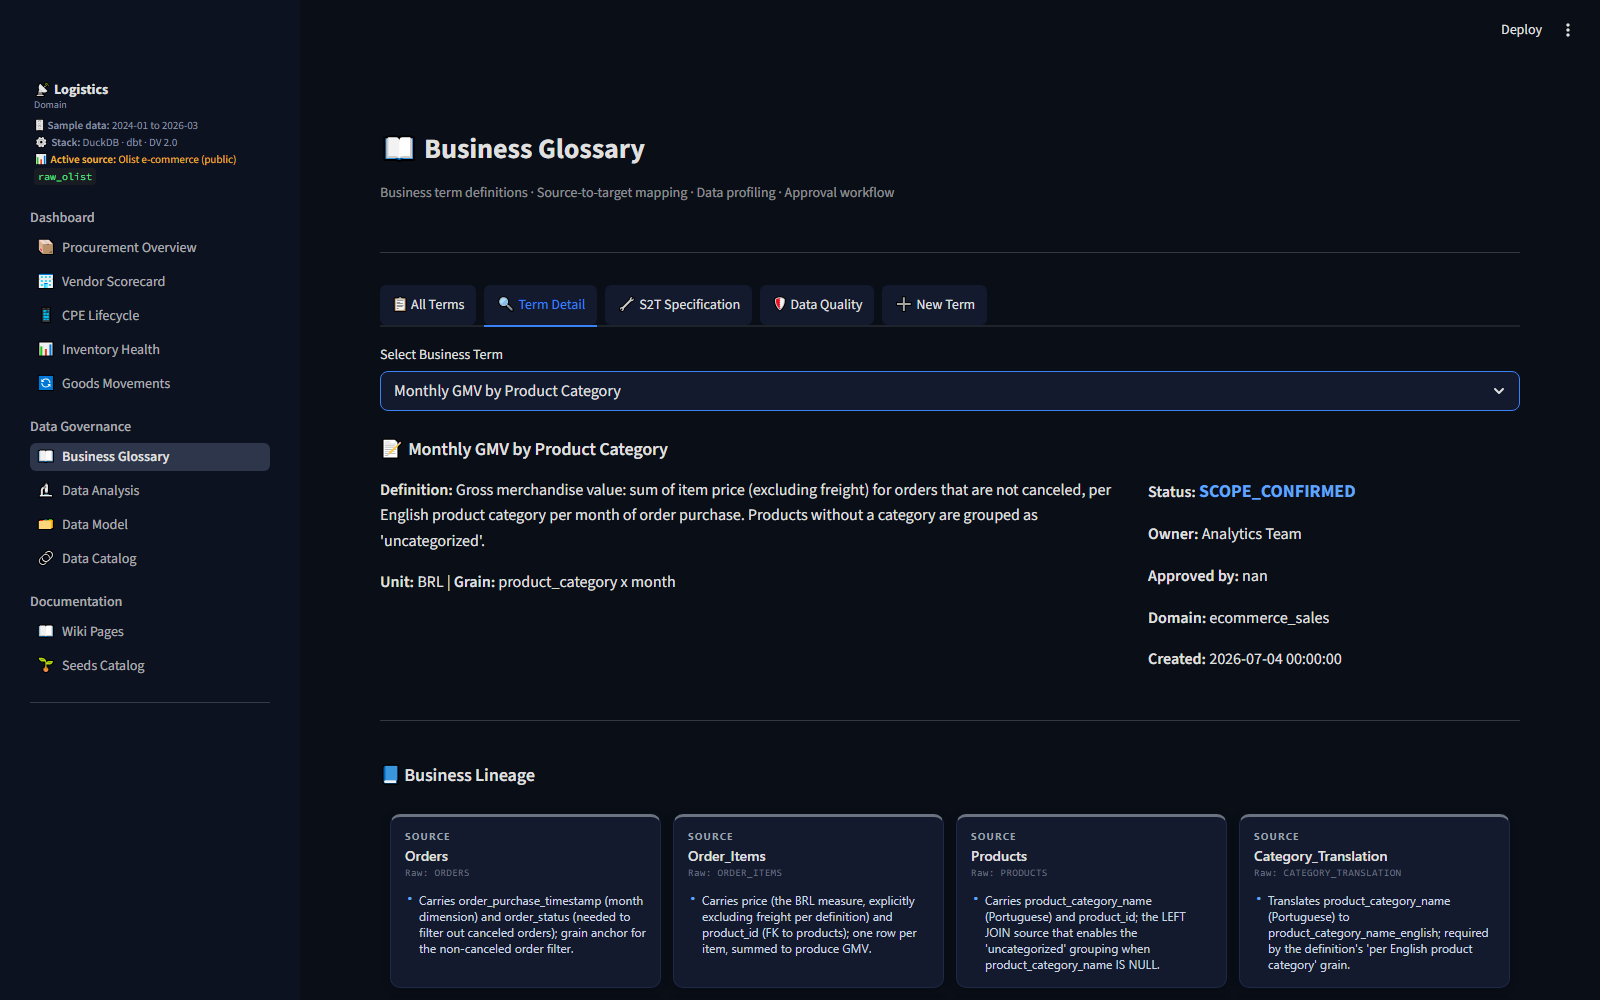
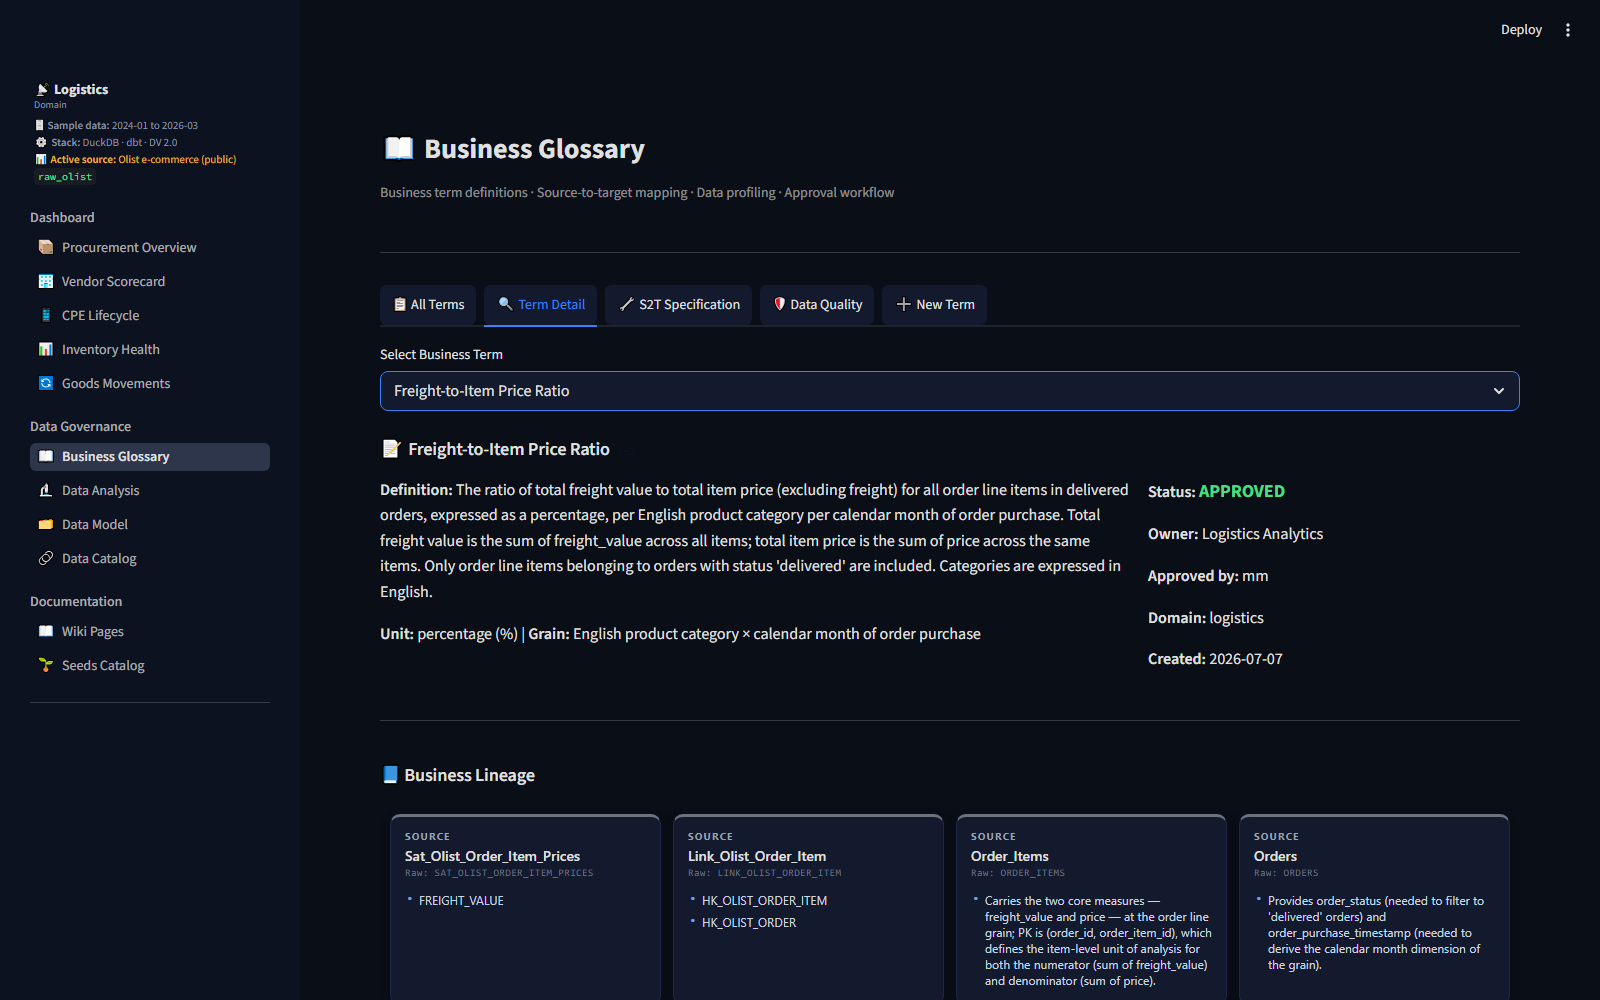
fix(ui): term metadata renders '-' for empty values, never 'nan'; retake README screenshot on BG036
The README's Term Detail screenshot showed 'Approved by: nan' (the GMV
term predates approval-by capture) and the retake on BG036 exposed the
same disease on Owner (the suggester prefill leaves owner empty).
Empty metadata now renders as a dash; BG036 got a real owner
(Logistics Analytics). Screenshot retaken on the approved,
machine-proposed term: green APPROVED status, real approver, full
lineage cards.

diff --git a/app/pages/Business_Glossary.py b/app/pages/Business_Glossary.py
@@ -2306,10 +2306,14 @@ with tab_detail:
                 f"**Status:** <span style='color:{status_color};font-weight:bold;font-size:18px'>{term['status'].upper()}</span>",
                 unsafe_allow_html=True,
             )
-            st.markdown(f"**Owner:** {term['owner']}")
-            st.markdown(f"**Approved by:** {term['approved_by']}")
-            st.markdown(f"**Domain:** {term['domain']}")
-            st.markdown(f"**Created:** {term['created_date']}")
+            def _meta(v):
+                # empty metadata renders as a dash, never pandas' 'nan'
+                return v if (pd.notna(v) and str(v).strip()
+                             and str(v).lower() != "nan") else "-"
+            st.markdown(f"**Owner:** {_meta(term['owner'])}")
+            st.markdown(f"**Approved by:** {_meta(term['approved_by'])}")
+            st.markdown(f"**Domain:** {_meta(term['domain'])}")
+            st.markdown(f"**Created:** {_meta(term['created_date'])}")
 
         related = term.get('related_terms', '')
         if pd.notna(related) and related: